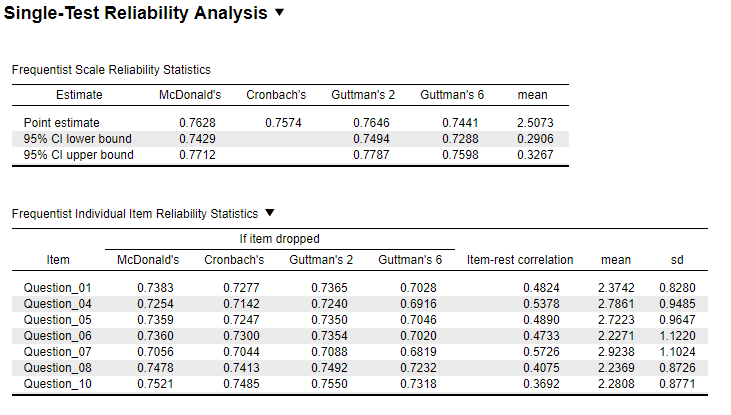
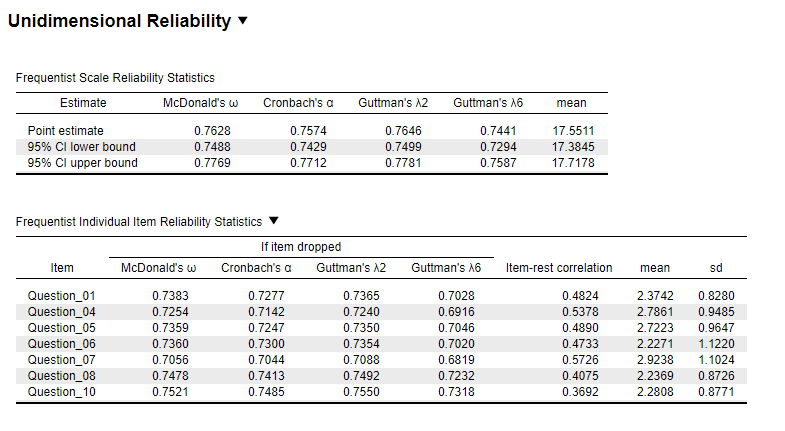
Update Reliability (#4)
* Update Reliability

Update JASP screenshot for reliability

* Update Relability

Changed region(s): [[0.0, 0.4916, 0.9631, 0.9542], [0.0, 0.1446, 0.7825, 0.4048], [0.0, 0.0, 0.3912, 0.0867]]

diff --git a/reliability-module.html b/reliability-module.html
@@ -24,7 +24,7 @@
 <meta name="author" content="info@jasp-stats.org" />
 
 
-<meta name="date" content="2020-11-30" />
+<meta name="date" content="2021-05-18" />
 
   <meta name="viewport" content="width=device-width, initial-scale=1" />
   <meta name="apple-mobile-web-app-capable" content="yes" />
@@ -177,12 +177,13 @@ code span.wa { color: #60a0b0; font-weight: bold; font-style: italic; } /* Warni
 <li class="chapter" data-level="3.3" data-path="t-tests.html"><a href="t-tests.html#paired-samples-t-test"><i class="fa fa-check"></i><b>3.3</b> Paired Samples T-Test</a><ul>
 <li class="chapter" data-level="3.3.1" data-path="t-tests.html"><a href="t-tests.html#ResultsPSTT"><i class="fa fa-check"></i><b>3.3.1</b> Results Overview</a></li>
 <li class="chapter" data-level="3.3.2" data-path="t-tests.html"><a href="t-tests.html#ByHandPSTT"><i class="fa fa-check"></i><b>3.3.2</b> By Hand</a></li>
-<li class="chapter" data-level="3.3.3" data-path="t-tests.html"><a href="t-tests.html#spssPSTT"><i class="fa fa-check"></i><b>3.3.3</b> SPSS</a></li>
-<li class="chapter" data-level="3.3.4" data-path="t-tests.html"><a href="t-tests.html#sasPSTT"><i class="fa fa-check"></i><b>3.3.4</b> SAS</a></li>
-<li class="chapter" data-level="3.3.5" data-path="t-tests.html"><a href="t-tests.html#minitabPSTT"><i class="fa fa-check"></i><b>3.3.5</b> Minitab</a></li>
-<li class="chapter" data-level="3.3.6" data-path="t-tests.html"><a href="t-tests.html#rPSTT"><i class="fa fa-check"></i><b>3.3.6</b> R</a></li>
-<li class="chapter" data-level="3.3.7" data-path="t-tests.html"><a href="t-tests.html#remarksPSTT"><i class="fa fa-check"></i><b>3.3.7</b> Remarks</a></li>
-<li class="chapter" data-level="3.3.8" data-path="t-tests.html"><a href="t-tests.html#refPSTT"><i class="fa fa-check"></i><b>3.3.8</b> References</a></li>
+<li class="chapter" data-level="3.3.3" data-path="t-tests.html"><a href="t-tests.html#jaspPSTT"><i class="fa fa-check"></i><b>3.3.3</b> JASP</a></li>
+<li class="chapter" data-level="3.3.4" data-path="t-tests.html"><a href="t-tests.html#spssPSTT"><i class="fa fa-check"></i><b>3.3.4</b> SPSS</a></li>
+<li class="chapter" data-level="3.3.5" data-path="t-tests.html"><a href="t-tests.html#sasPSTT"><i class="fa fa-check"></i><b>3.3.5</b> SAS</a></li>
+<li class="chapter" data-level="3.3.6" data-path="t-tests.html"><a href="t-tests.html#minitabPSTT"><i class="fa fa-check"></i><b>3.3.6</b> Minitab</a></li>
+<li class="chapter" data-level="3.3.7" data-path="t-tests.html"><a href="t-tests.html#rPSTT"><i class="fa fa-check"></i><b>3.3.7</b> R</a></li>
+<li class="chapter" data-level="3.3.8" data-path="t-tests.html"><a href="t-tests.html#remarksPSTT"><i class="fa fa-check"></i><b>3.3.8</b> Remarks</a></li>
+<li class="chapter" data-level="3.3.9" data-path="t-tests.html"><a href="t-tests.html#refPSTT"><i class="fa fa-check"></i><b>3.3.9</b> References</a></li>
 </ul></li>
 <li class="chapter" data-level="3.4" data-path="t-tests.html"><a href="t-tests.html#wilcoxon-test"><i class="fa fa-check"></i><b>3.4</b> Wilcoxon Test</a><ul>
 <li class="chapter" data-level="3.4.1" data-path="t-tests.html"><a href="t-tests.html#ResultsWilcoxon"><i class="fa fa-check"></i><b>3.4.1</b> Results Overview</a></li>
@@ -427,7 +428,7 @@ code span.wa { color: #60a0b0; font-weight: bold; font-style: italic; } /* Warni
 <div id="ResultsReli" class="section level3">
 <h3><span class="header-section-number">9.1.1</span> Results Overview</h3>
 <table>
-<caption><span id="tab:unnamed-chunk-126">Table 9.1: </span>Result Overview Reliability Analysis</caption>
+<caption><span id="tab:unnamed-chunk-1">Table 9.1: </span>Result Overview Reliability Analysis</caption>
 <thead>
 <tr class="header">
 <th align="left"></th>
@@ -461,13 +462,13 @@ Figure 9.1: JASP Output for Reliability Analysis
 </div>
 <div id="spssReli" class="section level3">
 <h3><span class="header-section-number">9.1.3</span> SPSS</h3>
-<div class="sourceCode" id="cb143"><pre class="sourceCode r"><code class="sourceCode r"><span id="cb143-1"><a href="reliability-module.html#cb143-1"></a>DATASET ACTIVATE DataSet1.</span>
-<span id="cb143-2"><a href="reliability-module.html#cb143-2"></a>RELIABILITY</span>
-<span id="cb143-3"><a href="reliability-module.html#cb143-3"></a>  <span class="op">/</span>VARIABLES=Question_<span class="dv">01</span> Question_<span class="dv">04</span> Question_<span class="dv">05</span> Question_<span class="dv">06</span> Question_<span class="dv">07</span> Question_<span class="dv">08</span> Question_<span class="dv">10</span></span>
-<span id="cb143-4"><a href="reliability-module.html#cb143-4"></a>  <span class="op">/</span><span class="kw">SCALE</span>(<span class="st">&#39;ALL VARIABLES&#39;</span>) ALL</span>
-<span id="cb143-5"><a href="reliability-module.html#cb143-5"></a>  <span class="op">/</span>MODEL=ALPHA</span>
-<span id="cb143-6"><a href="reliability-module.html#cb143-6"></a>  <span class="op">/</span>STATISTICS=DESCRIPTIVE SCALE</span>
-<span id="cb143-7"><a href="reliability-module.html#cb143-7"></a>  <span class="op">/</span>SUMMARY=TOTAL MEANS.</span></code></pre></div>
+<div class="sourceCode" id="cb1"><pre class="sourceCode r"><code class="sourceCode r"><span id="cb1-1"><a href="reliability-module.html#cb1-1"></a>DATASET ACTIVATE DataSet1.</span>
+<span id="cb1-2"><a href="reliability-module.html#cb1-2"></a>RELIABILITY</span>
+<span id="cb1-3"><a href="reliability-module.html#cb1-3"></a>  <span class="op">/</span>VARIABLES=Question_<span class="dv">01</span> Question_<span class="dv">04</span> Question_<span class="dv">05</span> Question_<span class="dv">06</span> Question_<span class="dv">07</span> Question_<span class="dv">08</span> Question_<span class="dv">10</span></span>
+<span id="cb1-4"><a href="reliability-module.html#cb1-4"></a>  <span class="op">/</span><span class="kw">SCALE</span>(<span class="st">&#39;ALL VARIABLES&#39;</span>) ALL</span>
+<span id="cb1-5"><a href="reliability-module.html#cb1-5"></a>  <span class="op">/</span>MODEL=ALPHA</span>
+<span id="cb1-6"><a href="reliability-module.html#cb1-6"></a>  <span class="op">/</span>STATISTICS=DESCRIPTIVE SCALE</span>
+<span id="cb1-7"><a href="reliability-module.html#cb1-7"></a>  <span class="op">/</span>SUMMARY=TOTAL MEANS.</span></code></pre></div>
 <div class="figure"><span id="fig:reliSPSS"></span>
 <img src="Screenshots/Reliability/ReliabilitySPSS1.PNG" alt="\label{fig:reliSPSS}SPSS Output for Reliability Analysis"  />
 <p class="caption">
@@ -483,9 +484,9 @@ Figure 9.3: SPSS Output for Reliability Analysis
 </div>
 <div id="sasReli" class="section level3">
 <h3><span class="header-section-number">9.1.4</span> SAS</h3>
-<div class="sourceCode" id="cb144"><pre class="sourceCode r"><code class="sourceCode r"><span id="cb144-1"><a href="reliability-module.html#cb144-1"></a>PROC CORR DATA=work.Reliability ALPHA;</span>
-<span id="cb144-2"><a href="reliability-module.html#cb144-2"></a>    VAR Q1 Q4 Q5 Q6 Q7 Q8 Q10;</span>
-<span id="cb144-3"><a href="reliability-module.html#cb144-3"></a>RUN;</span></code></pre></div>
+<div class="sourceCode" id="cb2"><pre class="sourceCode r"><code class="sourceCode r"><span id="cb2-1"><a href="reliability-module.html#cb2-1"></a>PROC CORR DATA=work.Reliability ALPHA;</span>
+<span id="cb2-2"><a href="reliability-module.html#cb2-2"></a>    VAR Q1 Q4 Q5 Q6 Q7 Q8 Q10;</span>
+<span id="cb2-3"><a href="reliability-module.html#cb2-3"></a>RUN;</span></code></pre></div>
 <div class="figure"><span id="fig:reliSAS"></span>
 <img src="Screenshots/Reliability/ReliabilitySAS.PNG" alt="\label{fig:reliSAS}SAS Output for Reliability Analysis"  />
 <p class="caption">
@@ -510,55 +511,46 @@ Figure 9.6: Minitab Output for Reliability Analysis
 </div>
 <div id="rReli" class="section level3">
 <h3><span class="header-section-number">9.1.6</span> R</h3>
-<div class="sourceCode" id="cb145"><pre class="sourceCode r"><code class="sourceCode r"><span id="cb145-1"><a href="reliability-module.html#cb145-1"></a><span class="co"># library(psych)</span></span>
-<span id="cb145-2"><a href="reliability-module.html#cb145-2"></a>QuestionSelection &lt;-<span class="st"> </span>reli.data[<span class="kw">c</span>(<span class="dv">1</span>,<span class="dv">4</span>,<span class="dv">5</span>,<span class="dv">6</span>,<span class="dv">7</span>,<span class="dv">8</span>,<span class="dv">10</span>)]</span>
-<span id="cb145-3"><a href="reliability-module.html#cb145-3"></a>analysis &lt;-<span class="st"> </span>psych<span class="op">::</span><span class="kw">alpha</span>(QuestionSelection)</span>
-<span id="cb145-4"><a href="reliability-module.html#cb145-4"></a>analysis</span></code></pre></div>
-<pre><code>## 
-## Reliability analysis   
-## Call: psych::alpha(x = QuestionSelection)
-## 
-##   raw_alpha std.alpha G6(smc) average_r S/N    ase mean   sd median_r
-##       0.76      0.76    0.74      0.31 3.1 0.0072  2.5 0.62      0.3
-## 
-##  lower alpha upper     95% confidence boundaries
-## 0.74 0.76 0.77 
-## 
-##  Reliability if an item is dropped:
-##                raw_alpha std.alpha G6(smc) average_r S/N alpha se  var.r med.r
-## ï..Question_01      0.73      0.72    0.70      0.30 2.6   0.0082 0.0079  0.28
-## Question_04         0.71      0.71    0.69      0.29 2.5   0.0086 0.0074  0.28
-## Question_05         0.72      0.72    0.70      0.30 2.6   0.0082 0.0091  0.30
-## Question_06         0.73      0.73    0.70      0.31 2.7   0.0081 0.0065  0.31
-## Question_07         0.70      0.71    0.68      0.29 2.4   0.0090 0.0067  0.27
-## Question_08         0.74      0.74    0.72      0.32 2.9   0.0078 0.0083  0.31
-## Question_10         0.75      0.75    0.73      0.34 3.0   0.0076 0.0071  0.33
-## 
-##  Item statistics 
-##                   n raw.r std.r r.cor r.drop mean   sd
-## ï..Question_01 2571  0.62  0.65  0.57   0.48  2.4 0.83
-## Question_04    2571  0.68  0.69  0.63   0.54  2.8 0.95
-## Question_05    2571  0.65  0.66  0.57   0.49  2.7 0.96
-## Question_06    2571  0.66  0.63  0.55   0.47  2.2 1.12
-## Question_07    2571  0.73  0.70  0.65   0.57  2.9 1.10
-## Question_08    2571  0.57  0.59  0.47   0.41  2.2 0.87
-## Question_10    2571  0.54  0.55  0.42   0.37  2.3 0.88
-## 
-## Non missing response frequency for each item
-##                   1    2    3    4    5 miss
-## ï..Question_01 0.11 0.52 0.29 0.07 0.02    0
-## Question_04    0.05 0.37 0.36 0.17 0.05    0
-## Question_05    0.06 0.43 0.29 0.18 0.04    0
-## Question_06    0.27 0.44 0.13 0.10 0.06    0
-## Question_07    0.07 0.34 0.26 0.24 0.09    0
-## Question_08    0.15 0.58 0.19 0.06 0.03    0
-## Question_10    0.14 0.57 0.18 0.10 0.02    0</code></pre>
-<div class="sourceCode" id="cb147"><pre class="sourceCode r"><code class="sourceCode r"><span id="cb147-1"><a href="reliability-module.html#cb147-1"></a>analysis<span class="op">$</span>total<span class="op">$</span>raw_alpha</span></code></pre></div>
+<div class="sourceCode" id="cb3"><pre class="sourceCode r"><code class="sourceCode r"><span id="cb3-1"><a href="reliability-module.html#cb3-1"></a><span class="co"># library(psych)</span></span>
+<span id="cb3-2"><a href="reliability-module.html#cb3-2"></a>QuestionSelection &lt;-<span class="st"> </span>reli.data[<span class="kw">c</span>(<span class="dv">1</span>,<span class="dv">4</span>,<span class="dv">5</span>,<span class="dv">6</span>,<span class="dv">7</span>,<span class="dv">8</span>,<span class="dv">10</span>)]</span>
+<span id="cb3-3"><a href="reliability-module.html#cb3-3"></a>analysis &lt;-<span class="st"> </span>psych<span class="op">::</span><span class="kw">alpha</span>(QuestionSelection, <span class="dt">cumulative =</span> T)</span>
+<span id="cb3-4"><a href="reliability-module.html#cb3-4"></a>analysis<span class="op">$</span>total</span></code></pre></div>
+<pre><code>##  raw_alpha std.alpha   G6(smc) average_r      S/N         ase     mean       sd
+##  0.7573813  0.757503 0.7440687 0.3085574 3.123762 0.007201353 17.55115 4.311329
+##  median_r
+##  0.297497</code></pre>
+<div class="sourceCode" id="cb5"><pre class="sourceCode r"><code class="sourceCode r"><span id="cb5-1"><a href="reliability-module.html#cb5-1"></a>analysis<span class="op">$</span>item.stats</span></code></pre></div>
+<pre><code>##                   n     raw.r     std.r     r.cor    r.drop     mean        sd
+## ï..Question_01 2571 0.6228945 0.6501973 0.5677797 0.4824078 2.374173 0.8280221
+## Question_04    2571 0.6848824 0.6913312 0.6268423 0.5378476 2.786075 0.9485482
+## Question_05    2571 0.6498827 0.6551175 0.5691098 0.4890456 2.722287 0.9646904
+## Question_06    2571 0.6626598 0.6292060 0.5488700 0.4733243 2.227149 1.1220023
+## Question_07    2571 0.7317687 0.7046681 0.6536507 0.5726486 2.923765 1.1023600
+## Question_08    2571 0.5692230 0.5881757 0.4711300 0.4074534 2.236873 0.8725704
+## Question_10    2571 0.5382484 0.5488999 0.4163395 0.3691902 2.280825 0.8771293</code></pre>
+<div class="sourceCode" id="cb7"><pre class="sourceCode r"><code class="sourceCode r"><span id="cb7-1"><a href="reliability-module.html#cb7-1"></a>analysis<span class="op">$</span>alpha.drop</span></code></pre></div>
+<pre><code>##                raw_alpha std.alpha   G6(smc) average_r      S/N    alpha se
+## ï..Question_01 0.7277017 0.7247454 0.7028417 0.3049925 2.633000 0.008153868
+## Question_04    0.7142260 0.7129289 0.6916327 0.2927412 2.483457 0.008553717
+## Question_05    0.7246553 0.7233622 0.7046391 0.3035270 2.614836 0.008232559
+## Question_06    0.7300262 0.7305573 0.7020402 0.3112445 2.711364 0.008128863
+## Question_07    0.7044218 0.7089704 0.6818863 0.2887689 2.436077 0.008995173
+## Question_08    0.7412689 0.7415166 0.7232435 0.3234650 2.868721 0.007791848
+## Question_10    0.7484933 0.7515384 0.7318020 0.3351629 3.024767 0.007620190
+##                      var.r     med.r
+## ï..Question_01 0.007856087 0.2837230
+## Question_04    0.007391559 0.2837230
+## Question_05    0.009125797 0.2974970
+## Question_06    0.006534879 0.3053651
+## Question_07    0.006679362 0.2686270
+## Question_08    0.008291751 0.3053651
+## Question_10    0.007077595 0.3307376</code></pre>
+<div class="sourceCode" id="cb9"><pre class="sourceCode r"><code class="sourceCode r"><span id="cb9-1"><a href="reliability-module.html#cb9-1"></a>analysis<span class="op">$</span>total<span class="op">$</span>raw_alpha</span></code></pre></div>
 <pre><code>## [1] 0.7573813</code></pre>
 </div>
 <div id="remarksReli" class="section level3">
 <h3><span class="header-section-number">9.1.7</span> Remarks</h3>
-<p>All differences in results between the software are due to rounding. JASP calculates the overall mean and SD across all questions, whereas other software calculates the overall mean and SD across subjects.</p>
+<p>All differences in results between the software are due to rounding. For this analysis JASP 0.15 was used.</p>
 </div>
 <div id="refReli" class="section level3">
 <h3><span class="header-section-number">9.1.8</span> References</h3>
